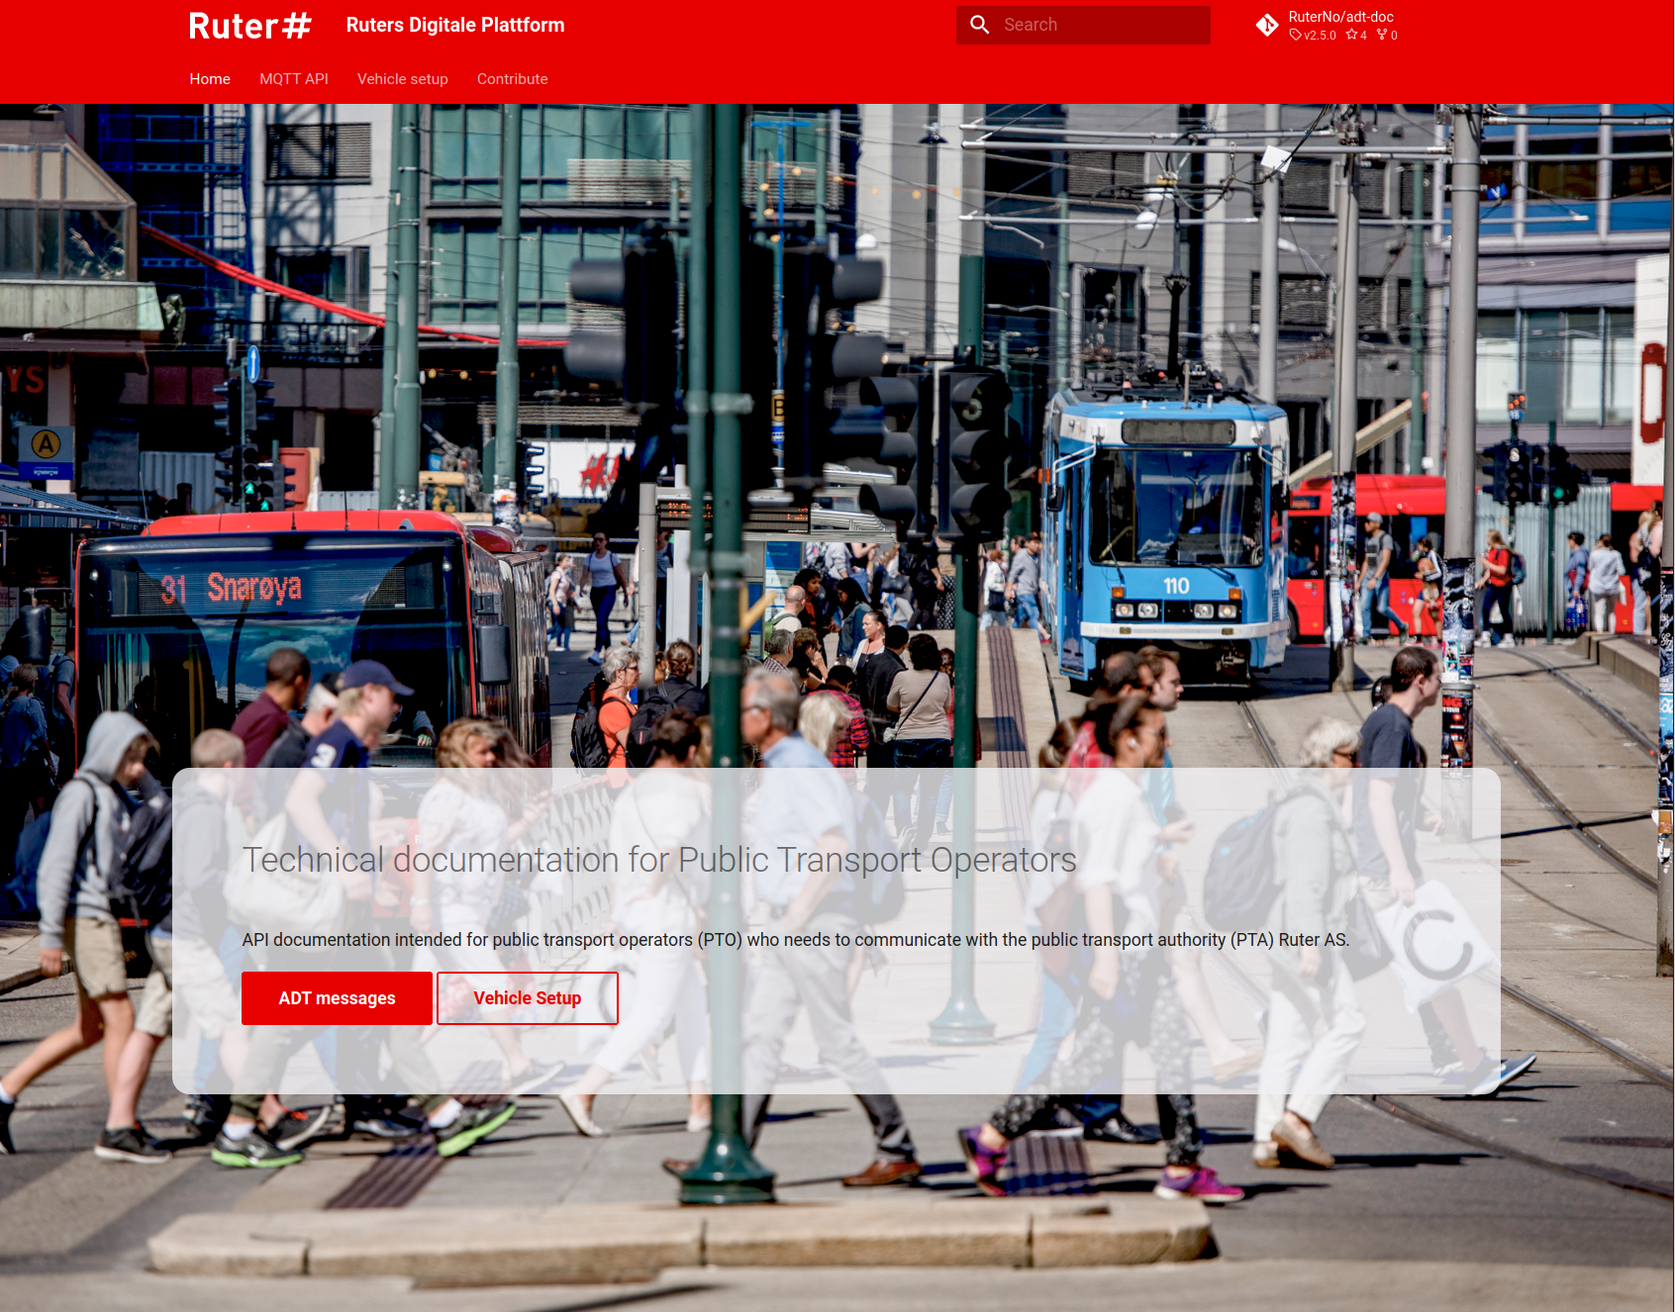
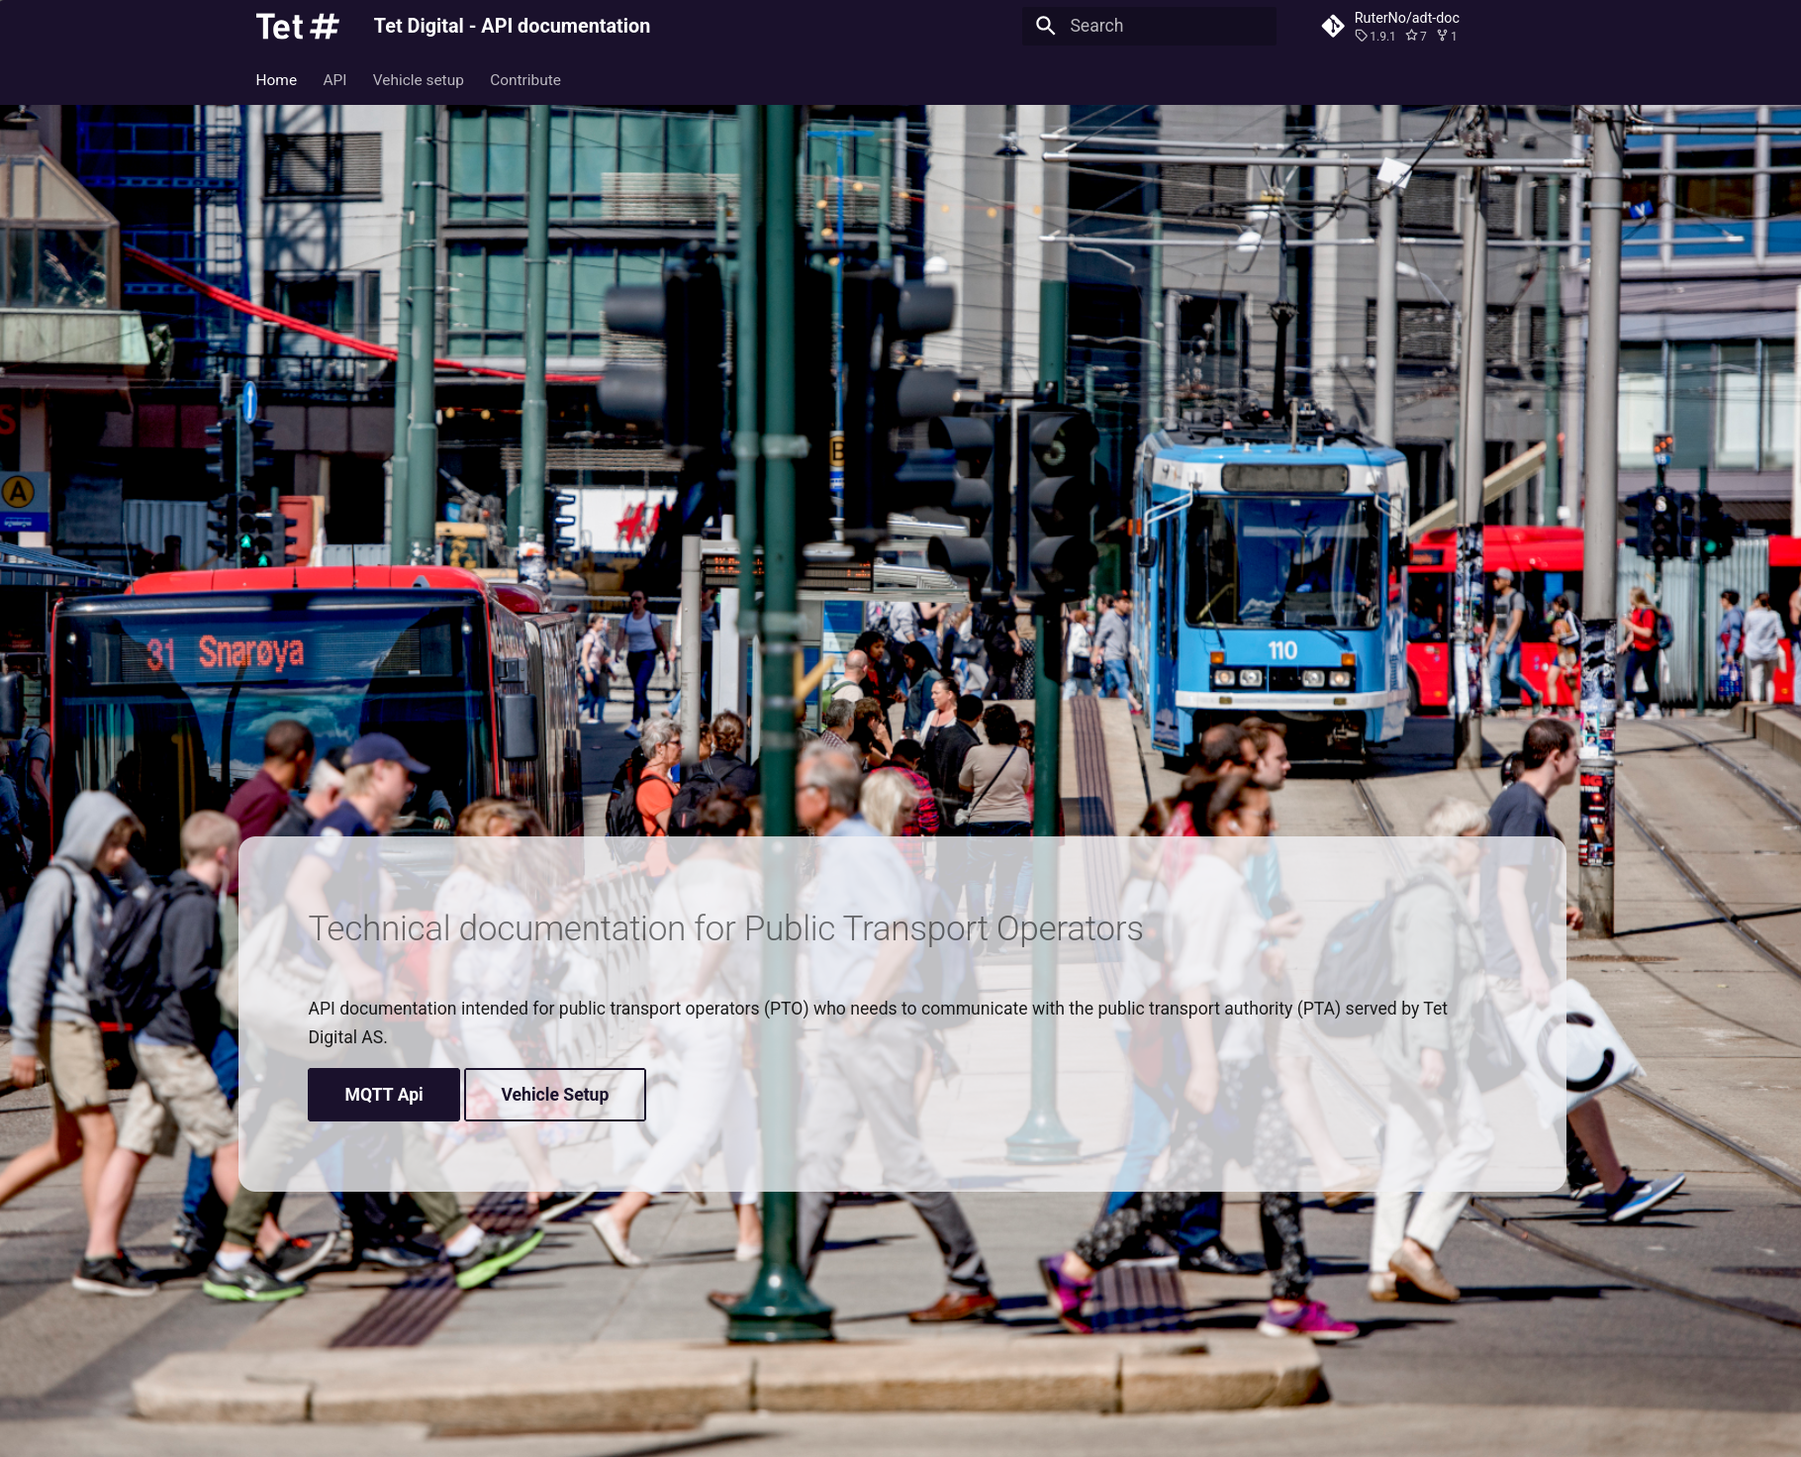
#364 adding Tet Digital branding to documentation site.

diff --git a/docs/stylesheets/extra.css b/docs/stylesheets/extra.css
@@ -4,3 +4,11 @@
   --md-primary-fg-color--dark:  #90030C;
   --md-accent-fg-color: #FF3C3CFF;
 }
+
+[data-md-color-scheme="tet"] {
+  --md-primary-fg-color:        #1a112c;
+  --md-primary-fg-color--light: #d3cdee;
+  --md-primary-fg-color--dark:  #161616;
+  --md-accent-fg-color: #998ed2;
+}
+

diff --git a/docs/pto-pta-responsibilities.md b/docs/pto-pta-responsibilities.md
@@ -6,7 +6,7 @@
 - Listen and publish on local MQTT topics
 - NOTE: All data to be sent to the PTA Backoffice must be made available on MQTT (for example: AVL/GPS position)
 
-### Ruters responsibilities:
+### Tet Digitals responsibilities:
 - Send messages to the MQTT bridge for real-time information
 - Define and document the configuration of Websockets (the port)
 
@@ -15,7 +15,7 @@
 - Install, upgrade and monitor browser in each individual screen.
 - Set up the browser to display predefined screens that match the screen size, location and function
 - Ensure that when starting the screens that the correct screen is always displayed
-- Monitor that the browser displays a html page provided by Ruter.
+- Monitor that the browser displays a html page provided by Tet Digital.
 - Monitor that all browsers receive messages and acknowledge messages.
 - Monitor the browser for any errors in the console, and possibly reload the page if problems occur
 - Provide first-line support/troubleshooting should a problem arise
@@ -23,7 +23,7 @@
 #### See also 
 - [Browser Requirements](browser-requirements.md)  
 
-### Ruters responsibilities:
+### Tet Digitals responsibilities:
 - Updating the content on the screen using mqtt over websockets
 - Define and document the setup of the screens
 
@@ -32,19 +32,19 @@
 ![Update static content](assets/images/pto/static_update.png)
 
 ### Operator responsibilities:
-- Download static content pack(s) from Ruter regularly
+- Download static content pack(s) from Tet Digital regularly
     - At least once a day
     - If it only happens once, then the download must take place after 16:00 each day, and be available in the vehicle until the following day
 - Validate that the package has been downloaded correctly (SHA hash verification)
 - Set aside 16GB of storage capacity in the vehicle for storing static files
     - Typically MP4, HTML, JS, images, mp3 etc.
-    - NOTE: the entire capacity of 16GB must be able to be used for DPI content. That is when the contents are to be extracted, the ruter's zip file must be in a different area than the destination files.
+    - NOTE: the entire capacity of 16GB must be able to be used for DPI content. That is when the contents are to be extracted, the Tet Digital's zip file must be in a different area than the destination files.
 - Push out new content packs to the vehicles when they are in the depot and before they are in traffic the next day
     - NOTE: Only files that have changed since the previous version should be transferred to the vehicle. Changes must be diffused and synchronized, e.g. with a tool like rsync.
 - Updates will come on two channels:
     - Stage
         - planned changes come here first, and must be verified that they work on a test vehicle by the operator, before they are promoted to prod.
-        - All errors discovered must be reported to Ruter's bug tracking system.
+        - All errors discovered must be reported to Tet Digital's bug tracking system.
     - Prod
         - Planned changes come here after being verified on stage.
         - In cases where there are errors in production, updates can come here without having gone through stage verification.
@@ -53,7 +53,7 @@
 - [Web content](web-content.md)
 - [Resources](resources.md)
 
-### Ruters responsibilities:
+### Tet Digitals responsibilities:
 - Define and document the format and use of the configuration message
 - Provide endpoints that specify the URLs and SHA hash signatures of the content packages
 - Make content packs available for download
@@ -63,9 +63,9 @@
 ![MQTT bridge update](assets/images/pto/mqtt_update.png)
 
 ### Operator responsibilities:
-- Download configuration updates from Ruter regularly
+- Download configuration updates from Tet Digital regularly
     - This must happen at the same time as the check of static content
-- Build up vehicle-specific configurations based on Ruter's configuration
+- Build up vehicle-specific configurations based on Tet Digital's configuration
     - Insert variable names where needed
     - Example : `{operator}/ruter/{vehicle_id}/adt/v3/pe/dpi/journey`
     translates to: `alpha/ruter/990552/adt/v3/pe/dpi/journey`
@@ -73,12 +73,12 @@
 - Updates will come on two channels:
     - Stage
         - planned changes come here first, and must be verified that they work on a in-house virtual vehicle by the operator, before they are promoted to prod.
-        - All errors discovered must be reported to Ruter's bug tracking system.
+        - All errors discovered must be reported to Tet Digital's bug tracking system.
     - Prod
         - Planned changes come here after being verified on stage.
         - In cases where there are errors in production, updates can arrive here without having been through stage verification.
     
-### Ruters responsibilities:
+### Tet Digitals responsibilities:
 - Define and document the format and use of the configuration message
 - Make configuration available to all MQTT topics on an endpoint
 - Make both Stage and Prod versions available
@@ -91,7 +91,7 @@
 - The message can contain several sound files in an array, in these cases they must be played in the order in which they are received in the array.
 - Processing of MQTT messages must be synchronous. That is a message must be processed and the audio message finished playing before a new message can be processed.
 
-### Ruters responsibilities:
+### Tet Digitals responsibilities:
 - Produce audio messages on the MQTT bridge
 - Define and document changes in the MQTT message for audio.
 
@@ -100,7 +100,7 @@
 - Ensure that all devices on board have synchronized clocks that follow NTP
     - Includes: Browsers / monitors and audio playback unit
 
-### Ruters responsibilities:
+### Tet Digitals responsibilities:
 - Only use the device's system clock where there is a need to know the time.
 
 ## Mobile data usage
@@ -110,14 +110,14 @@
 - Synchronization of static files to the vehicle must be done using a tool that supports incremental changes (i.e. only files that have changed should be transferred)
 - The browsers must have access to internet-based content. (eg. displaying map in relation with a deviation)
 
-### Ruters responsibilities:
+### Tet Digitals responsibilities:
 - Limit the scope of static and dynamic content updates
 - Preferably use local content on board the bus in cases where it is practically possible
 - Use caching in the browser to limit data usage on the internet
 
 ## General information about reporting errors
 ### Operator responsibilities:
-- If errors are detected in the DPI solution, the operator should report errors to Ruter's bugtracking system
+- If errors are detected in the DPI solution, the operator should report errors to Tet Digital's bugtracking system
 - Errors that are reported must contain as much technical information as possible to reproduce the error. For example:
     - stack traces
     - screenshots
@@ -127,5 +127,5 @@
     - vehicleid
 - The operator must make technical personnel available when troubleshooting/debugging is required
 
-### Ruters responsibilities:
+### Tet Digitals responsibilities:
 - Answer and investigate error messages that are reported

diff --git a/docs/mqtt.md b/docs/mqtt.md
@@ -1,10 +1,10 @@
 # MQTT
 
-MQTT is light-weight pub-sub messaging protocol often used for machine-to-machine (M2M)/"Internet of Things" communication. It is one of the standard communication protocols defined in ITxPT, and the way vehicles are supposed to communicate with Ruter.
+MQTT is light-weight pub-sub messaging protocol often used for machine-to-machine (M2M)/"Internet of Things" communication. It is one of the standard communication protocols defined in ITxPT, and the way vehicles are supposed to communicate with Tet Digital.
 
 !!! note "ITxPT"
     MQTT is a fairly new addition to the ITxPT standard, and is currently a work in progress. 
-    Ruter is an active member in the international standard committee.
+    Tet Digital is an active member in the international standard committee.
 
 For more information, see: 
 - [MQTT.org](https://mqtt.org)
@@ -13,8 +13,8 @@ For more information, see:
 ## Architecture
 Two key elements of the architecture are the MQTT broker and the MQTT bridges. 
 
-### MQTT broker (Ruter)
-Ruter operates a central MQTT broker that communicates with all the vehicles. 
+### MQTT broker (Tet Digital)
+Tet Digital operates a central MQTT broker that communicates with all the vehicles. 
 
 > _Notice_  Starting from ADT 3+ all vehicle bridges towards this broker are required to use the MQTT protocol version 5. 
 > Support for MQTT v3.1 will be removed at a later stage.
@@ -22,7 +22,7 @@ Ruter operates a central MQTT broker that communicates with all the vehicles.
 All communication with the MQTT broker is encrypted during transport using TLS 1.2. 
 
 !!! info "MQTT Brokers "
-    To get access to the brokers, please reach out to [rdp-support@ruter.no](mailto:rdp-support@ruter.no).
+    To get access to the brokers, please reach out to [rdp-support@tetdigital.no](mailto:rdp-support@tetdigital.no).
 
     | Environment | Hostname                   | Description                                                    |
     |-------------|----------------------------|----------------------------------------------------------------|
@@ -31,9 +31,9 @@ All communication with the MQTT broker is encrypted during transport using TLS 1
 
 ### MQTT bridge (On-board Vehicle)
 
-The operator is to maintain a MQTT bridge on board the vehicle. The MQTT bridge acts as a proxy and forwards requests back and forth between the vehicle and Ruter. 
+The operator is to maintain a MQTT bridge on board the vehicle. The MQTT bridge acts as a proxy and forwards requests back and forth between the vehicle and Tet Digital. 
 
-To get access to the MQTT broker, you need to reach out to Ruter to be provided with credentials. 
+To get access to the MQTT broker, you need to reach out to Tet Digital to be provided with credentials. 
 
 There is no strict requirement as to what implementation you chose of the mqtt bridge, as long as it is stable and fullfills the standard. 
 
@@ -47,9 +47,9 @@ There are multiple open-source solutions to choose from, i.e. [https://mosquitto
 
 ## Updating configurations and DPI content
 
-Ruter reserves the right to update the topic configuration and content packages when it deems it necessary.
+Tet Digital reserves the right to update the topic configuration and content packages when it deems it necessary.
 
-While the PTO is responsible for setting up the mqtt bridge configuration correctly according to the software running on the vehicle, Ruter provides an api listing all the topics that should be made available for the services on-board the vehicle. 
+While the PTO is responsible for setting up the mqtt bridge configuration correctly according to the software running on the vehicle, Tet Digital provides an api listing all the topics that should be made available for the services on-board the vehicle. 
 
 !!! info "MQTT Topic configurations "
     

diff --git a/docs/resources.md b/docs/resources.md
@@ -1,6 +1,6 @@
 # Resources Manifest
 
-The resources manifest is means of describing which resources Ruter is sharing with operators. 
+The resources manifest is means of describing which resources Tet Digital is sharing with operators. 
 Initially, the list will contain an audio file intended to be played when a stop is requested
 on board the vehicle. It allows us to change the sound over time and ensure a uniform aural 
 experience for passengers.
@@ -56,14 +56,14 @@ An example of the contents of the resources.json looks like:
 |-------------|-----------------------|---------------------------------------------------------|
 | timestamp   | ISO date/time stamp   | Time the new manifest is released                       |
 | environment | test/stage/prod       | Which environment the manifest applies to               |
-| resources   | list of type Resource | a collection of one or more resources that Ruter shares |
+| resources   | list of type Resource | a collection of one or more resources that Tet Digital shares |
 
 ### Resource
 
 | Name        | Values    | Description                                                                                                            |
 |-------------|-----------|------------------------------------------------------------------------------------------------------------------------|
-| name        | string    | names that Ruter defines, only "stopRequestedSound" is currently defined                                               |
-| type        | string    | types that Ruter supports, only "audio" is currently defined                                                           |
+| name        | string    | names that Tet Digital defines, only "stopRequestedSound" is currently defined                                               |
+| type        | string    | types that Tet Digital supports, only "audio" is currently defined                                                           |
 | contentType | MIME type | a MIME type that corresponds to the type of the resource that is shared                                                |
 | url         | URL       | the location of where the resource can be fetched, the file name has a time stamp part that corresponds to its version |
 | sha256      | string    | A SHA 256 hash of the resource, which can be used to verify the validity of the downloaded file                        |

diff --git a/docs/web-content.md b/docs/web-content.md
@@ -2,18 +2,18 @@
 
 ## Overview
 
-Ruter publishes content that is to be available on the web server on board the vehicle. This is done using `rclone`, a command line program to manage files on cloud storage. `rclone` can sync files between local file systems and cloud storage providers.
+Tet Digital publishes content that is to be available on the web server on board the vehicle. This is done using `rclone`, a command line program to manage files on cloud storage. `rclone` can sync files between local file systems and cloud storage providers.
 
 For more information, see the [`rclone` documentation](https://rclone.org/docs/).
 
 ## General information regarding update procedures
 
-- Synchronization of web content is performed using `rclone` to download the latest content from Ruter's web server.
+- Synchronization of web content is performed using `rclone` to download the latest content from Tet Digital's web server.
 - Synchronization should occur periodically throughout the day to keep files up to date.
 - At least **16 GB** of storage must be available on the vehicle to store the PTA's content.
 - **SLA requirements:**
   - Any content updated before 16:00 must be available in the vehicle before it starts its route the following morning.
-  - Ruter expects the PTO to update content at the frequency indicated in the installation instructions below. If not, SLA requirements may be adjusted in future releases.
+  - Tet Digital expects the PTO to update content at the frequency indicated in the installation instructions below. If not, SLA requirements may be adjusted in future releases.
 - The PTO should download new versions from a pre-production channel in a test environment and ensure the version is thoroughly tested before deploying to production.
 
 ## Installation Instructions

diff --git a/readme.md b/readme.md
@@ -22,7 +22,7 @@
 <br />
 <div align="center">
   <a href="https://ruterno.github.io/adt-doc/">
-    <img src="docs/assets/ruter_logo_red.svg" alt="Logo" width="300" height="80">
+    <img src="docs/assets/tet_logo_purple.svg" alt="Logo" width="300" height="80">
   </a>
 
 <h3 align="center">API Documentation - Avtale om digitale tjenester (ADT)</h3>
@@ -75,7 +75,7 @@
 [![ADT-DOC][product-screenshot]][ADT-DOC-url]
 
 This project contains documentation of the API interfaces between Public Transport Operators (PTO) 
-and the Public Transport Authority (PTA) of the Oslo and Viken region. 
+and the Public Transport Authority (PTA) serviced by Tet Digital AS. 
 
 The documentation describes the purpose of our over-the-air messages, as well as how the messages are to be constructed. 
 You will find example messages, json-schemas and tips on how to setup your test environments.
@@ -138,7 +138,7 @@ ag asyncapi/asyncapi.yml @asyncapi/html-template@0.28.4 -o docs/asyncapi --force
 #### Install 
 
 ```
-pip install mkdocs-material
+pipx install mkdocs-material --include-deps
 ```
 
 #### Run

diff --git a/docs/allowed-domains.md b/docs/allowed-domains.md
@@ -2,7 +2,7 @@
 
 ## Overview
 
-Ruter publishes a allowed domain list, this list of domains should be accessible from the screens on board the vehicle.  
+Tet Digital publishes a allowed domain list, this list of domains should be accessible from the screens on board the vehicle.  
 
 | Environment | URL                                                    | Purpose                                                        |
 |-------------|--------------------------------------------------------|----------------------------------------------------------------|

diff --git a/docs/browser-requirements.md b/docs/browser-requirements.md
@@ -14,4 +14,4 @@ The PTO is required to install and maintain one of the following supported brows
 - Only stable, officially released versions of the browsers are to be used.
 - The browsers major version should not be older than 18 months.
 - It must not operate in incognito or private browsing modes.
-- All feature flags should be set to their default values, unless otherwise agreed upon with Ruter.
+- All feature flags should be set to their default values, unless otherwise agreed upon with Tet Digital.

diff --git a/docs/traffic-plan.md b/docs/traffic-plan.md
@@ -1,6 +1,6 @@
 # Traffic plan export API
 
-The API is used for syncing traffic plans between operators and Ruter. Operators can either use the exported traffic 
+The API is used for syncing traffic plans between operators and Tet Digital. Operators can either use the exported traffic 
 plans directly for sign-on or compare their own traffic plans against the exported plans in order to find differences 
 that may lead to sign-on failing.
 

diff --git a/docs/timestamps.md b/docs/timestamps.md
@@ -1,6 +1,6 @@
 # Standard for date and timestamps in ADT
 
-> This page specifies date and time standards between Ruter and PTO's.
+> This page specifies date and time standards between Tet Digital and PTO's.
 >
 > The date and time standards are based on the intersection of [RFC 3339](https://datatracker.ietf.org/doc/html/rfc3339)
 > and [ISO 8601-1:2019](https://www.iso.org/obp/ui#iso:std:iso:8601:-1:ed-1:v1:en).

diff --git a/docs/issue.md b/docs/issue.md
@@ -2,7 +2,7 @@
 
 ## Improvement suggestions
 
-At Ruter we greatly appreciate open discussions about our APIs. If you have any suggestions on how they could work
+At Tet Digital we greatly appreciate open discussions about our APIs. If you have any suggestions on how they could work
 better, please feel free to create a Github issue here: 
 
 [Issue tracking](https://github.com/RuterNo/adt-doc/issues)

diff --git a/docs/operator_portal.md b/docs/operator_portal.md
@@ -2,7 +2,7 @@
 
 ## Description 
 
-Ruter will develop an operator portal in co-operation with the current PTOs. 
+Tet Digital will develop an operator portal in co-operation with the current PTOs. 
 
 ### Intended functionality
 
